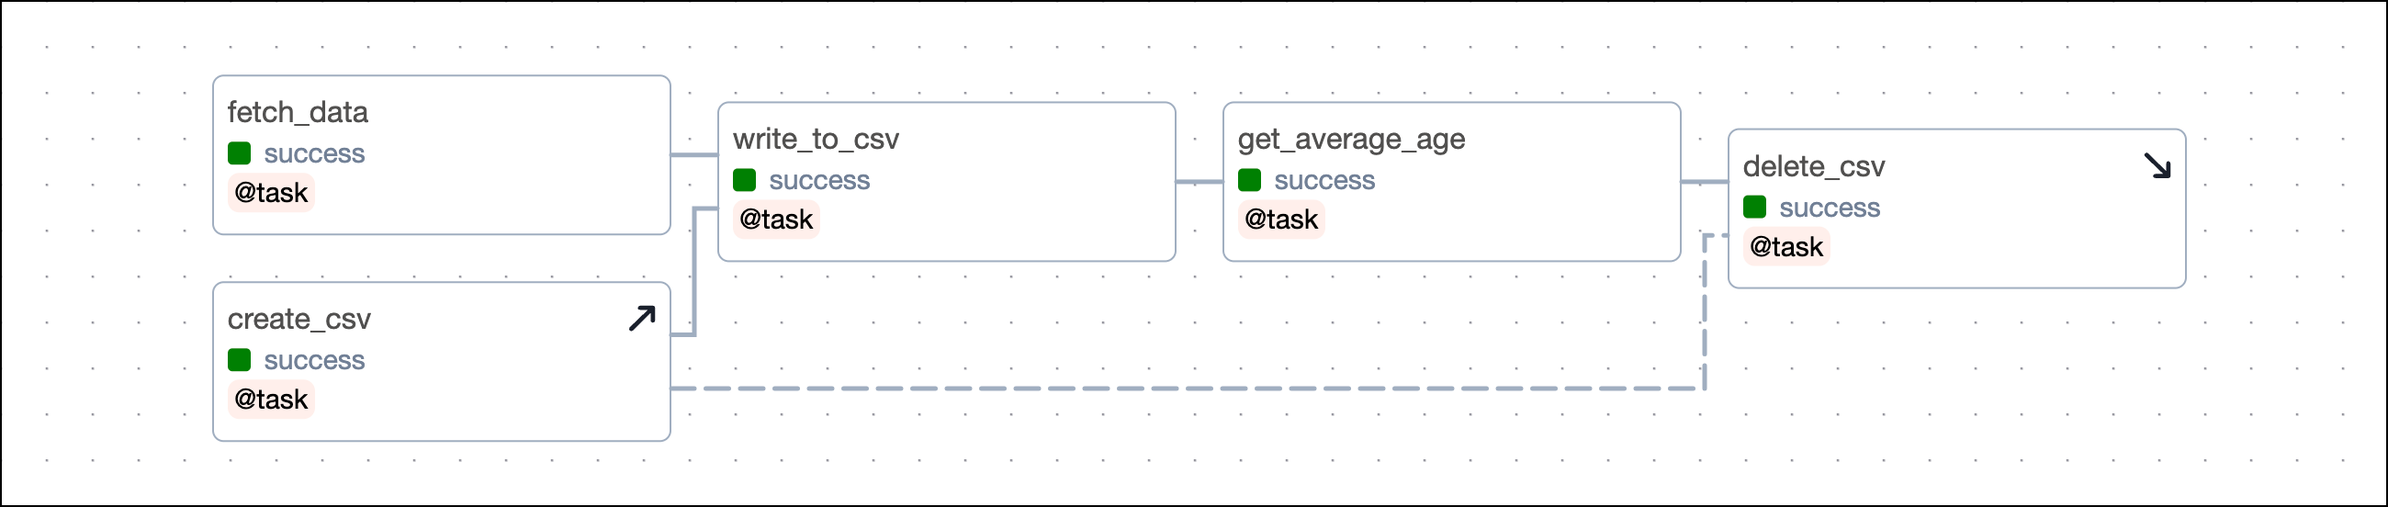
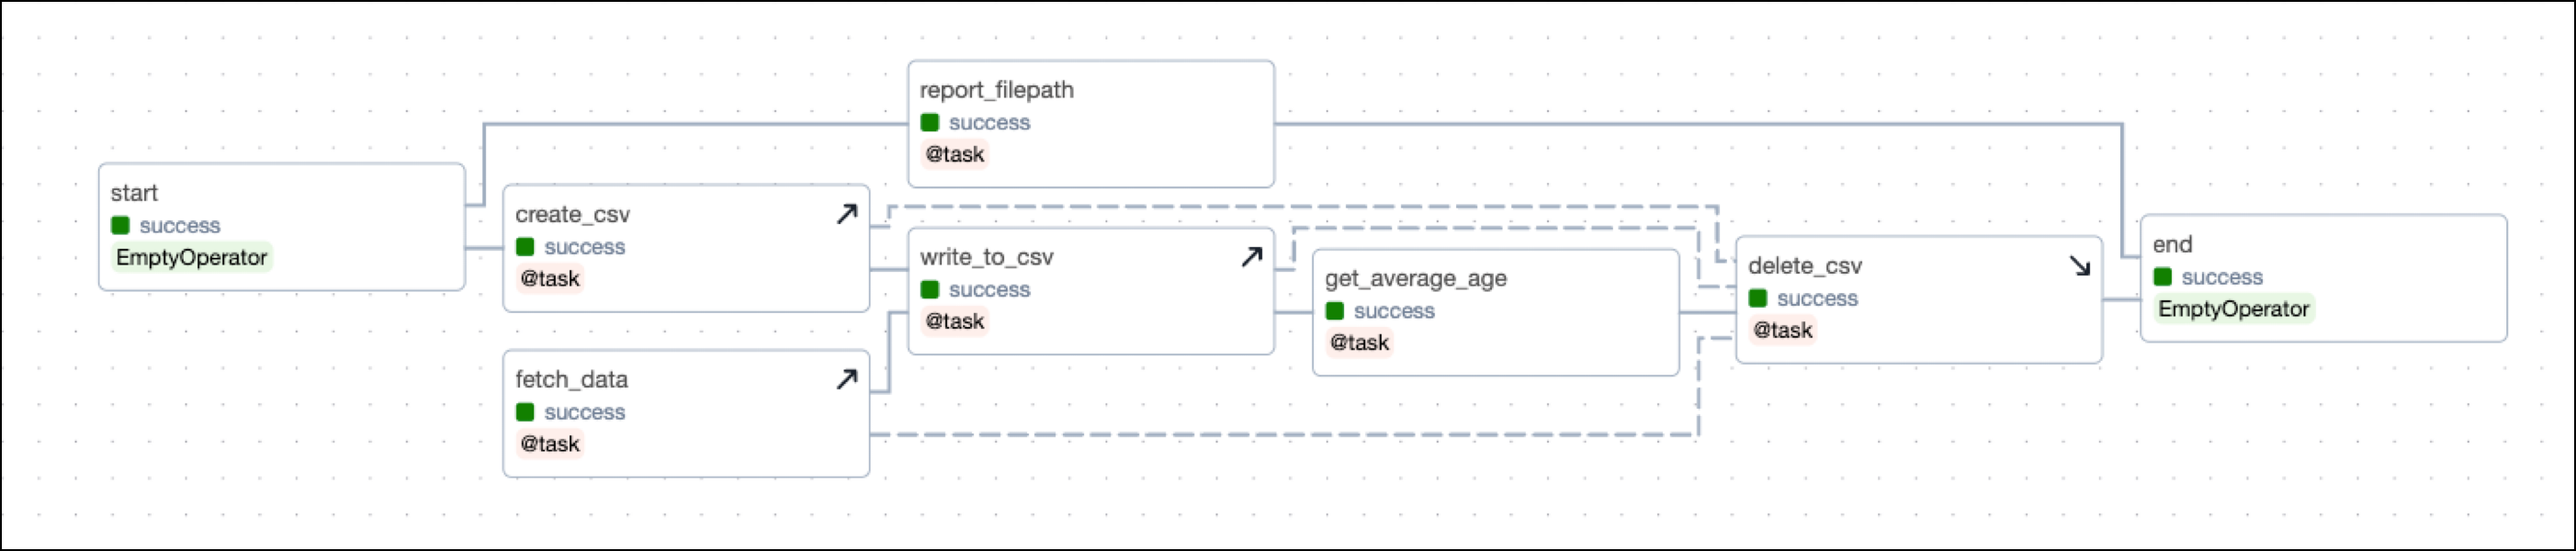
proofread and improve example

diff --git a/code-samples/dags/airflow-setup-teardown/setup_teardown_example_decorators.py b/code-samples/dags/airflow-setup-teardown/setup_teardown_example_decorators.py
@@ -9,6 +9,7 @@ from airflow.decorators import dag, task, setup, teardown
 from airflow.models.baseoperator import chain
 from pendulum import datetime
 from airflow.models.param import Param
+from airflow.operators.empty import EmptyOperator
 import os
 import csv
 import time
@@ -33,7 +34,15 @@ def get_params_helper(**context):
     },
     tags=["@setup", "@teardown", "setup/teardown"],
 )
-def setup_teardown_basic_decorators():
+def setup_teardown_csv_decorators():
+    start = EmptyOperator(task_id="start")
+    end = EmptyOperator(task_id="end")
+
+    @task
+    def report_filepath(**context):
+        folder, filename, cols = get_params_helper(**context)
+        print(f"Filename: {folder}/{filename}")
+
     @setup
     def create_csv(**context):
         folder, filename, cols = get_params_helper(**context)
@@ -45,7 +54,7 @@ def setup_teardown_basic_decorators():
             writer = csv.writer(f)
             writer.writerows([cols])
 
-    @task
+    @setup
     def fetch_data(**context):
         bad_data = context["params"]["fetch_bad_data"]
 
@@ -62,7 +71,7 @@ def setup_teardown_basic_decorators():
                 [3, "Lea", 19],
             ]
 
-    @task
+    @setup
     def write_to_csv(data, **context):
         folder, filename, cols = get_params_helper(**context)
 
@@ -92,6 +101,8 @@ def setup_teardown_basic_decorators():
         if not os.listdir(f"{folder}"):
             os.rmdir(f"{folder}")
 
+    start >> report_filepath() >> end
+
     create_csv_obj = create_csv()
     fetch_data_obj = fetch_data()
     write_to_csv_obj = write_to_csv(fetch_data_obj)
@@ -99,15 +110,19 @@ def setup_teardown_basic_decorators():
     delete_csv_obj = delete_csv()
 
     chain(
+        start,
         create_csv_obj,
         write_to_csv_obj,
         get_average_age_obj,
         delete_csv_obj,
+        end,
     )
 
     # when using @setup and @teardown the tasks can be linked using normal dependency syntax
     # or by leveraging task flow (see the complex example)
     create_csv_obj >> delete_csv_obj
+    fetch_data_obj >> delete_csv_obj
+    write_to_csv_obj >> delete_csv_obj
 
 
-setup_teardown_basic_decorators()
+setup_teardown_csv_decorators()

diff --git a/code-samples/dags/airflow-setup-teardown/setup_teardown_example_methods.py b/code-samples/dags/airflow-setup-teardown/setup_teardown_example_methods.py
@@ -9,6 +9,7 @@ from airflow.decorators import dag, task
 from airflow.models.baseoperator import chain
 from pendulum import datetime
 from airflow.models.param import Param
+from airflow.operators.empty import EmptyOperator
 import os
 import csv
 import time
@@ -33,7 +34,15 @@ def get_params_helper(**context):
     },
     tags=[".is_teardown()", "setup/teardown"],
 )
-def setup_teardown_basic_method():
+def setup_teardown_csv_methods():
+    start = EmptyOperator(task_id="start")
+    end = EmptyOperator(task_id="end")
+
+    @task
+    def report_filepath(**context):
+        folder, filename, cols = get_params_helper(**context)
+        print(f"Filename: {folder}/{filename}")
+
     @task
     def create_csv(**context):
         folder, filename, cols = get_params_helper(**context)
@@ -92,6 +101,8 @@ def setup_teardown_basic_method():
         if not os.listdir(f"{folder}"):
             os.rmdir(f"{folder}")
 
+    start >> report_filepath() >> end
+
     create_csv_obj = create_csv()
     fetch_data_obj = fetch_data()
     write_to_csv_obj = write_to_csv(fetch_data_obj)
@@ -99,23 +110,15 @@ def setup_teardown_basic_method():
     delete_csv_obj = delete_csv()
 
     chain(
+        start,
         create_csv_obj,
         write_to_csv_obj,
         get_average_age_obj,
-        delete_csv_obj.as_teardown(setups=create_csv_obj),
+        delete_csv_obj.as_teardown(
+            setups=[create_csv_obj, write_to_csv_obj, fetch_data_obj]
+        ),
+        end,
     )
 
-    # you can also use .as_setup() and .as_teardown() individually
-    """chain(
-        create_csv_obj.as_setup(),
-        write_to_csv_obj,
-        get_average_age_obj,
-        delete_csv_obj.as_teardown(),
-    )"""
 
-    # if no `setups` argument is specified in .as_teardown() the dependency
-    # between the setup and teardown task has to be added manually
-    # create_csv_obj >> delete_csv_obj
-
-
-setup_teardown_basic_method()
+setup_teardown_csv_methods()

diff --git a/learn/airflow-setup-teardown.md b/learn/airflow-setup-teardown.md
@@ -47,15 +47,15 @@ Setup/ teardown tasks have different behavior from regular tasks:
 
 - Clearing a task that is in scope of a setup/ teardown workflow will also clear and rerun the associated setup and teardown tasks, ensuring that all resources the task needs are created again for the task rerun and torn down after the task has completed.
 
-- A teardown task will run as long as at least one of its associated `setup` tasks have completed successfully and all of its upstream tasks have completed, regardless of whether they were successful or not. If all associated setup tasks fail or are skipped, the teardown task will be failed or skipped respectively.
+- A teardown task will run as long as at least one of its associated setup tasks have completed successfully and all of its upstream tasks have completed, regardless of whether they were successful or not. If all associated setup tasks fail or are skipped, the teardown task will be failed or skipped respectively.
 
 - A teardown task without any associated setup tasks will always run once all upstream worker tasks have completed running, independently of whether they were successful or not.
 
-- When evaluating whether a DAG run was successful, Airflow will ignore teardown tasks by default. This means if a teardown task fails as the final task of a DAG, the DAG is still marked as having succeeded. In the example shown in the screenshot below, the DAG run state is not impacted by the failure of `tear_down_cluster` and is marked as successful. You can change this behavior by setting `on_failure_fail_dagrun=True` in the teardown task.
+- When evaluating whether a DAG run was successful, Airflow will ignore teardown tasks by default. This means if a teardown task fails as the final task of a DAG, the DAG is still marked as having succeeded. In the example shown in the screenshot below, the DAG run state is not impacted by the failure of `tear_down_cluster` and is marked as successful. You can change this behavior by setting `on_failure_fail_dagrun=True` in the [`.as_teardown()` method](#as_setup-and-as_teardown-methods) or [`@teardown` decorator](#setup-and-teardown-decorators).
 
     ![Successful DAG with failed teardown](/img/guides/airflow-setup-teardown_teardown_fail_dag_succeed.png)
 
-- When a teardown task is within a [task group](task-groups.md) and a dependency is set on the task group, the teardown task will be ignored when evaluating if a dependency has been met. For example, `run_after_taskgroup`, which is dependent on the `work_in_the_cluster` task group, will run even if the teardown task has failed or is still running.
+- When a teardown task is within a [task group](task-groups.md) and a dependency is set on the task group, the teardown task will be ignored when evaluating if a dependency has been met. For example, `run_after_task_group`, which is dependent on the `work_in_the_cluster` task group, will run even if the teardown task has failed or is still running.
 
     ![Task group with teardown](/img/guides/airflow-setup-teardown-task_after_taskgroup.png)
 
@@ -85,7 +85,7 @@ Now, even if one of the worker tasks fails, like `worker_task_2` in the followin
 
 Additionally, when you clear any of the worker tasks, both the setup and teardown tasks will also be cleared and rerun. This is useful when you are recovering from a pipeline issue and need to rerun one or more tasks that use a resource independent of the other tasks in the scope.
 
-For example, in the previous DAG, consider if `worker_task_2` failed and `worker_task_3` was unable to run due to its upstream task having failed. If you cleared `worker_task_2` by clicking **Clear task**, both the setup task `provision_cluster` and the teardown task `tear_down_cluster` will be cleared and rerun in addition to `worker_task_2` and `worker_task_3`. This lets you completely recover without needing to rerun `worker_task_1` or manually rerun individual tasks.
+For example, in the previous DAG, consider if `worker_task_2` failed and `worker_task_3` was unable to run due to its upstream task having failed. If you cleared `worker_task_2` by clicking **Clear task**, both the setup task `provision_cluster` and the teardown task `tear_down_cluster` will be cleared and rerun in addition to `worker_task_2`, `worker_task_3` and `downstream_task`. This lets you completely recover without needing to rerun `worker_task_1` or manually rerun individual tasks.
 
 ![DAG with setup/ teardown - recovery](/img/guides/airflow-setup-teardown-clear_task.png)
 
@@ -125,11 +125,11 @@ To turn a task into a setup task, call the `.as_setup()` method on the called ta
 def my_setup_task():
     return "Setting up resources!"
 
-my_setup_task().as_setup()
+my_setup_task_obj = my_setup_task()
+my_setup_task_obj.as_setup()
 
-# it is also possible to call `.as_setup()` on the task object
-# my_setup_task_obj = my_setup_task()
-# my_setup_task_obj.as_setup()
+# it is also possible to call `.as_setup()` directly on the function call
+# my_setup_task().as_setup()
 ```
 
 ![Setup task decorator](/img/guides/airflow-setup-teardown_setup_task_decorator.png)
@@ -175,11 +175,11 @@ def worker_task():
 def my_teardown_task():
     return "Tearing down resources!"
 
-worker_task() >> my_teardown_task().as_teardown()
+my_teardown_task_obj = my_teardown_task()
+worker_task() >> my_teardown_task_obj.as_teardown()
 
-# it is also possible to call `.as_teardown()` on the task object
-# my_teardown_task_obj = my_teardown_task()
-# worker_task() >> my_teardown_task_obj.as_teardown()
+# it is also possible to call `.as_teardown()` directly on the function call
+# worker_task() >> my_teardown_task().as_teardown()
 ```
 
 ![Teardown task decorator](/img/guides/airflow-setup-teardown_teardown_decorators.png)
@@ -216,7 +216,7 @@ After you have defined your setup and teardown tasks you need to [define their w
 
 ### `@setup` and `@teardown` decorators
 
-When working with the TaskFlow API you can also use the `@setup()` and `@teardown()` decorators to turn any Python function into a setup or teardown task.
+When working with the TaskFlow API you can also use the `@setup` and `@teardown` decorators to turn any Python function into a setup or teardown task.
 
 ```python
 from airflow.decorators import setup
@@ -262,7 +262,7 @@ Which method you use is a matter of personal preference. However, note that if y
 
 You can have multiple sets of setup and teardown tasks in a DAG, both in [parallel](#parallel-setup-teardown-workflows) and [nested](#nested-setup-teardown-workflows) workflows.
 
-There are no limits to how many setup and teardown tasks you can have, nor are there limits to how many worker tasks you include in their scope.
+There are no limits to how many setup and teardown tasks you can have, nor are there limits to how many worker tasks you can include in their scope.
 
 For example, you could have one task that creates a cluster, a second task that modifies the environment within that cluster, and a third task that tears down the cluster. In this case you could define the first two tasks as setup tasks and the last one as a teardown task, all belonging to the same resource. In a second step, you could add 10 tasks performing actions on that cluster to the scope of the setup/ teardown workflow.
 
@@ -280,7 +280,7 @@ There are multiple methods for linking setup and teardown tasks.
     ]}>
 <TabItem value="taskflow_setups">
 
-Using the `@task` decorator, you can use the `.as_teardown()` method and the `setups` argument to define which setup tasks are being grouped with a teardown task. Note that it is also possible to use [`@setup` and `@teardown` decorators](#setup-and-teardown-decorators) instead and link them using direct dependencies.
+Using the `@task` decorator, you can use the `.as_teardown()` method and the `setups` argument to define which setup tasks are in the same workflow as the teardown task. Note that it is also possible to use [`@setup` and `@teardown` decorators](#setup-and-teardown-decorators) instead and link them using direct dependencies.
 
 ```python
 @task
@@ -309,7 +309,7 @@ my_setup_task_obj = my_setup_task()
 </TabItem>
 <TabItem value="traditional_setups">
 
-If you are using traditional Airflow operators, you can use the `.as_teardown()` method in the `setups` argument to define which setup tasks are being grouped with a teardown task.
+If you are using traditional Airflow operators, you can use the `.as_teardown()` method and the `setups` argument to define which setup tasks are in the same workflow as the teardown task.
 
 ```python
 def my_setup_task_func():
@@ -348,11 +348,11 @@ my_teardown_task_obj = PythonOperator(
 </TabItem>
 <TabItem value="taskflow_direct">
 
-Instead of using the `setups` argument you can directly link the setup and teardown tasks with a traditional dependency. Whenever you define a direct dependency between a setup and a teardown task Airflow will interpret this as them being grouped together, no matter what actions the tasks actually perform.
+Instead of using the `setups` argument you can directly link the setup and teardown tasks with a traditional dependency. Whenever you define a direct dependency between a setup and a teardown task Airflow will interpret this as them being in the same workflow together, no matter what actions the tasks actually perform.
 
 ```python
 (
-    my_setup_task_obj.as_setup()
+    my_setup_task_obj.as_setup()  # calling .as_setup() is necessary
     >> worker_task()
     >> my_teardown_task_obj.as_teardown()
 )
@@ -462,7 +462,7 @@ To define several teardown tasks for one setup task, you have to provide the set
 
 ![Setup/ teardown relationships multiple setup](/img/guides/airflow-setup-teardown-multiple_teardowns_decorators.png)
 
-If your setup/ teardown workflow contains more than one setup and one teardown task, you need to define several dependencies, when not using the `setups` argument. Each setup task needs to be set as an upstream dependency to each teardown task. The example below shows a setup/ teardown workflow of two setup tasks and two teardown tasks. To define the workflow, you need to set four dependencies.
+If your setup/ teardown workflow contains more than one setup and one teardown task, you need to define several dependencies, when not using the `setups` argument. Each setup task needs to be set as an upstream dependency to each teardown task. The example below shows a setup/ teardown workflow containing two setup tasks and two teardown tasks. To define the workflow, you need to set four dependencies.
 
 ```python
 (
@@ -661,13 +661,21 @@ my_setup_task >> [my_worker_task_1_obj >> my_worker_task_2_obj] >> my_worker_tas
 
 ## Example DAG
 
-The DAG shown in this example mimics a setup/ teardown pattern that you can run locally: 
+The DAG shown in this example mimics a setup/ teardown pattern that you can run locally. The setup/ teardown workflow consists of the following tasks: 
 
-- The `create_csv` file will create a CSV file in a directory specified as a [DAG param](airflow-params.md). This task has been turned into a setup task.
+- The `create_csv` task will create a CSV file in a directory specified as a [DAG param](airflow-params.md). This task has been turned into a setup task.
+- The `write_to_csv` task will write data to the CSV file. This task has been turned into a setup task.
+- The `fetch_data` task will fetch data from a remote source and write it to the CSV file.  This task has been turned into a setup task.
 - The `delete_csv` task is the associated teardown task, deleting the resource of the CSV file.
-- The `fetch_data`, `write_to_csv` and `get_average_age_obj` tasks are in the scope of the setup/ teardown workflow. Any failure in these tasks would still need the resource "CSV file" to be deleted afterwards (to make it more real, consider the CSV file to be an expensive cluster). To recover from a failure when rerunning any of these tasks, you always need the CSV file to be created again, which automatically happens by rerunning the `create_csv` task when any of the tasks in scope are cleared.
+- The `get_average_age_obj` task is in the scope of the setup/ teardown workflow. A failure of this task would still need the resource "CSV file" to be deleted afterwards (to make it more real, consider the CSV file to be an expensive cluster). To recover from a failure when rerunning the `get_average_age_obj` task, you always need the CSV file to be created again, as well as the data to be fetched again and written to the CSV file. This automatically happens by rerunning the `create_csv`, `write_to_csv` and `fetch_data` tasks when the task in the scope of this setup/teardown workflow `get_average_age_obj` is cleared.
 
-This DAG comes with a convenience parameter to test setup/ teardown functionality. Toggle `fetch_bad_data` in the **Trigger DAG** view to cause bad data to get into the pipeline and the `get_average_age_obj` to fail. You will see that `delete_csv` will still run and delete the CSV file.
+The DAG contains 3 tasks which are not part of the setup/ teardown workflow:
+
+- The `start` task is an empty task at the start of the DAG.
+- The `report_file_path` task is a task that prints the path of the CSV file to the logs.
+- The `end` task is an empty task at the end of the DAG.
+
+This DAG comes with a convenience parameter to test setup/ teardown functionality. Toggle `fetch_bad_data` in the **Trigger DAG** view to cause bad data to get into the pipeline and the `get_average_age_obj` to fail. You will see that `delete_csv` will still run and delete the CSV file. In a real-world scenario, after fixing the data issue you would clear the `get_average_age_obj` task and all tasks of the setup/ teardown workflow can rerun and complete successfully.
 
 <Tabs
     defaultValue="decorators"
